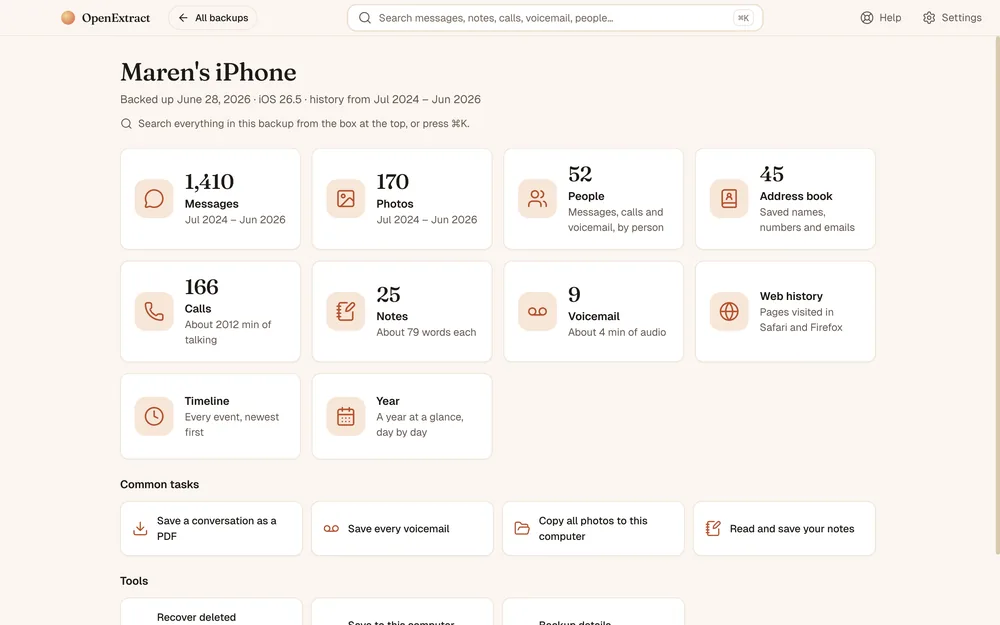
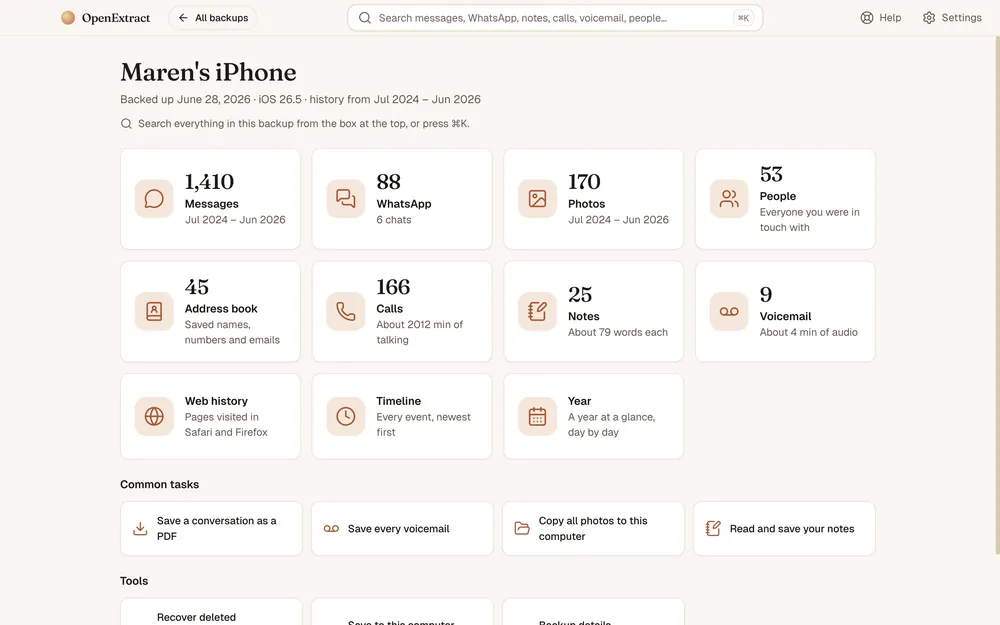
site: WhatsApp screenshots from the sample backup, and a new home shot
Two new screens, taken with the run-openextract driver on the synthetic
Maren backup (encrypted, now with WhatsApp chats), 1440x900 at 2x, resized
to 1000 and 2000 px WebP at quality 80 like the existing shots:

- whatsapp: the WhatsApp section with the MLA '18 group open: a reply
  quoting an earlier message, reactions and a photo of Diablo Lake.
- whatsapp-chat: Lucia's chat (in Spanish) with rose-garden photos, a
  missed call, a voice message playing in the app and a 22-minute call.

whatsapp-* fills the screenshot spot on both WhatsApp guides (English and
German alt text now describe it). /screenshots gets both as a pair after
Group chats, so the home page says "See all 18 screens". The README
screenshot table gets the same pair, and its Search caption names
WhatsApp.

home-1000/2000.webp and home-2000.png are retaken in place: the home page
now has a WhatsApp tile (88 messages, 6 chats) and 53 people. Alt text on
the home page, /screenshots, the Linux guide and the README says so.
Linux guide lastmod 2026-11-11.

diff --git a/website/static/screenshots.html b/website/static/screenshots.html
@@ -49,7 +49,7 @@
   <section class="gallery">
     <figure class="screen screen--wide">
       <a class="screen__frame" href="/img/screens/home-2000.webp">
-        <img src="/img/screens/home-1000.webp" srcset="/img/screens/home-1000.webp 1000w, /img/screens/home-2000.webp 2000w" sizes="(max-width: 720px) calc(100vw - 48px), min(calc(100vw - 112px), 1088px)" width="1000" height="625" decoding="async" alt="The home page for Maren's iPhone: tiles for 1,410 messages, 170 photos, 52 people, 45 address book cards, 166 calls, 25 notes and 9 voicemails, plus Web history, Timeline and Year, under a search box that runs across the top." />
+        <img src="/img/screens/home-1000.webp" srcset="/img/screens/home-1000.webp 1000w, /img/screens/home-2000.webp 2000w" sizes="(max-width: 720px) calc(100vw - 48px), min(calc(100vw - 112px), 1088px)" width="1000" height="625" decoding="async" alt="The home page for Maren's iPhone: tiles for 1,410 messages, 88 WhatsApp messages in 6 chats, 170 photos, 53 people, 45 address book cards, 166 calls, 25 notes and 9 voicemails, plus Web history, Timeline and Year, under a search box that runs across the top." />
       </a>
       <figcaption><strong>Home</strong>Everything in the backup on one page, most of it with a count. The box at the top searches all of it.</figcaption>
     </figure>
@@ -96,11 +96,19 @@
       <figcaption><strong>Group chats</strong>Group threads show who said what.</figcaption>
     </figure>
 
-    <!-- WhatsApp screenshot slot, filled in the screenshot step: a <figure class="screen">
-         like the ones above, with img/screens/whatsapp-1000.webp and whatsapp-2000.webp,
-         alt text describing the sample chat, and a caption such as
-         <strong>WhatsApp</strong>Chats and groups with their photos, voice messages, replies and calls.
-         Then change "See all 16 screens" on the home page to 17. -->
+    <figure class="screen">
+      <a class="screen__frame" href="/img/screens/whatsapp-2000.webp">
+        <img src="/img/screens/whatsapp-1000.webp" srcset="/img/screens/whatsapp-1000.webp 1000w, /img/screens/whatsapp-2000.webp 2000w" sizes="(max-width: 720px) calc(100vw - 48px), 540px" width="1000" height="625" loading="lazy" decoding="async" alt="A WhatsApp group chat called MLA &rsquo;18, beside the list of six chats: a reply that quotes an earlier message, emoji reactions under messages and a photo of Diablo Lake." />
+      </a>
+      <figcaption><strong>WhatsApp</strong>Chats, groups and broadcast lists in a section of their own. Replies show the message they answer, with reactions underneath.</figcaption>
+    </figure>
+
+    <figure class="screen">
+      <a class="screen__frame" href="/img/screens/whatsapp-chat-2000.webp">
+        <img src="/img/screens/whatsapp-chat-1000.webp" srcset="/img/screens/whatsapp-chat-1000.webp 1000w, /img/screens/whatsapp-chat-2000.webp 2000w" sizes="(max-width: 720px) calc(100vw - 48px), 540px" width="1000" height="625" loading="lazy" decoding="async" alt="A WhatsApp chat in Spanish with Lucía Navarro: two photos of a rose garden, a missed call, a voice message playing in the app and a 22-minute call." />
+      </a>
+      <figcaption><strong>Voice messages and calls</strong>Play voice messages in the app. Calls show in the chat, missed or with how long they lasted.</figcaption>
+    </figure>
 
     <figure class="screen">
       <a class="screen__frame" href="/img/screens/photos-2000.webp">

diff --git a/website/static/de/whatsapp-chats-exportieren.html b/website/static/de/whatsapp-chats-exportieren.html
@@ -180,11 +180,9 @@
     <div class="prose__inner">
       <p>WhatsApp kann einen Chat selbst exportieren, aber nur einzeln und als reine Textdatei. Das Chat-Backup von WhatsApp landet in iCloud, und dort kann es nur WhatsApp wiederherstellen; öffnen kannst du es nicht. Wenn du deine Chats lesbar auf dem eigenen Computer haben willst, zum Aufbewahren, Ausdrucken oder Durchsuchen, hilft dir beides wenig.</p>
       <p>Es gibt einen anderen Weg. Wenn du dein iPhone auf einem Computer sicherst, landen die WhatsApp-Chats mit im Backup, zusammen mit deinen Nachrichten und Fotos. OpenExtract liest sie dort aus, zeigt sie in einem eigenen WhatsApp-Bereich und speichert sie als Dateien, die sich überall öffnen lassen. Kostenlos, ohne Probeversion und ohne Limit.</p>
-      <!-- Screenshot: the WhatsApp section on the made-up sample backup (same images as
-           the English page, added in the screenshot step; update the alt text to match). -->
       <figure class="screen">
         <a class="screen__frame" href="/img/screens/whatsapp-2000.webp">
-          <img src="/img/screens/whatsapp-1000.webp" srcset="/img/screens/whatsapp-1000.webp 1000w, /img/screens/whatsapp-2000.webp 2000w" sizes="(max-width: 720px) calc(100vw - 48px), 720px" width="1000" height="625" loading="lazy" decoding="async" alt="Der WhatsApp-Bereich in OpenExtract, geöffnet aus einem erfundenen Beispiel-Backup: die Liste der Chats neben einem geöffneten Chat." />
+          <img src="/img/screens/whatsapp-1000.webp" srcset="/img/screens/whatsapp-1000.webp 1000w, /img/screens/whatsapp-2000.webp 2000w" sizes="(max-width: 720px) calc(100vw - 48px), 720px" width="1000" height="625" loading="lazy" decoding="async" alt="Der WhatsApp-Bereich in OpenExtract, geöffnet aus einem erfundenen Beispiel-Backup: sechs Chats neben einem geöffneten Gruppenchat, mit einer Antwort, die eine frühere Nachricht zitiert, Emoji-Reaktionen unter Nachrichten und einem Foto von einem See." />
         </a>
         <figcaption><strong>WhatsApp aus einem Backup</strong>Ein erfundenes Beispiel-Backup in OpenExtract. Die Oberfläche ist auf Englisch.</figcaption>
       </figure>

diff --git a/website/static/use-cases/export-whatsapp-chats-from-iphone-backup.html b/website/static/use-cases/export-whatsapp-chats-from-iphone-backup.html
@@ -178,12 +178,9 @@
     <div class="prose__inner">
       <p>WhatsApp's own Export Chat works one chat at a time and gives you a plain text file. Its chat backup goes to iCloud, where only WhatsApp can restore it and you can't open it yourself. Neither is much help if you want your chats on your own computer, in a form you can read, print and keep.</p>
       <p>There's another way in. When you back up an iPhone to a computer, WhatsApp's chats go into that backup along with your texts and photos. OpenExtract reads them from there, in their own WhatsApp section, and saves them as files that open anywhere. It's free, with no trial and no limit on how much you save.</p>
-      <!-- Screenshot: the WhatsApp section on the made-up sample backup. The images
-           img/screens/whatsapp-1000.webp and whatsapp-2000.webp are added in the
-           screenshot step; update the alt text to match what the screenshot shows. -->
       <figure class="screen">
         <a class="screen__frame" href="/img/screens/whatsapp-2000.webp">
-          <img src="/img/screens/whatsapp-1000.webp" srcset="/img/screens/whatsapp-1000.webp 1000w, /img/screens/whatsapp-2000.webp 2000w" sizes="(max-width: 720px) calc(100vw - 48px), 720px" width="1000" height="625" loading="lazy" decoding="async" alt="The WhatsApp section in OpenExtract, opened on a made-up sample backup: the list of chats beside an open chat." />
+          <img src="/img/screens/whatsapp-1000.webp" srcset="/img/screens/whatsapp-1000.webp 1000w, /img/screens/whatsapp-2000.webp 2000w" sizes="(max-width: 720px) calc(100vw - 48px), 720px" width="1000" height="625" loading="lazy" decoding="async" alt="The WhatsApp section in OpenExtract, opened on a made-up sample backup: six chats listed beside an open group chat, with a reply that quotes an earlier message, emoji reactions under messages and a photo of a lake." />
         </a>
         <figcaption><strong>WhatsApp, opened from a backup</strong>A made-up sample backup in OpenExtract. <a href="/screenshots">See every screen</a>.</figcaption>
       </figure>

diff --git a/website/static/index.html b/website/static/index.html
@@ -275,7 +275,7 @@
     </div>
     <figure class="screen">
       <a class="screen__frame" href="/img/screens/home-2000.webp">
-        <img src="/img/screens/home-1000.webp" srcset="/img/screens/home-1000.webp 1000w, /img/screens/home-2000.webp 2000w" sizes="(max-width: 720px) calc(100vw - 48px), calc(100vw - 112px)" width="1000" height="625" loading="lazy" decoding="async" alt="The home page for Maren's iPhone: tiles for 1,410 messages, 170 photos, 52 people, 45 address book cards, 166 calls, 25 notes and 9 voicemails, plus Web history, Timeline and Year, under a search box that runs across the top." />
+        <img src="/img/screens/home-1000.webp" srcset="/img/screens/home-1000.webp 1000w, /img/screens/home-2000.webp 2000w" sizes="(max-width: 720px) calc(100vw - 48px), calc(100vw - 112px)" width="1000" height="625" loading="lazy" decoding="async" alt="The home page for Maren's iPhone: tiles for 1,410 messages, 88 WhatsApp messages in 6 chats, 170 photos, 53 people, 45 address book cards, 166 calls, 25 notes and 9 voicemails, plus Web history, Timeline and Year, under a search box that runs across the top." />
       </a>
     </figure>
     <div class="screens__grid">
@@ -298,7 +298,7 @@
         <figcaption><strong>Photos</strong>The whole camera roll, sorted into the albums you made.</figcaption>
       </figure>
     </div>
-    <a class="screens__more" href="/screenshots">See all 16 screens →</a>
+    <a class="screens__more" href="/screenshots">See all 18 screens →</a>
   </section>
 
   <section class="how">

diff --git a/website/static/use-cases/iphone-backup-extractor-linux.html b/website/static/use-cases/iphone-backup-extractor-linux.html
@@ -87,7 +87,7 @@
       <p>OpenExtract builds for Linux with every release. It's the same app as on Mac and Windows, with the same screens and exports, and the parsing engine's tests run on Linux, macOS and Windows on every change.</p>
       <figure class="screen">
         <a class="screen__frame" href="/img/screens/home-2000.webp">
-          <img src="/img/screens/home-1000.webp" srcset="/img/screens/home-1000.webp 1000w, /img/screens/home-2000.webp 2000w" sizes="(max-width: 720px) calc(100vw - 48px), 720px" width="1000" height="625" loading="lazy" decoding="async" alt="The home page of a sample iPhone backup in OpenExtract: tiles with counts of messages, photos, people, address book cards, calls, notes and voicemails, under a search box for the whole backup." />
+          <img src="/img/screens/home-1000.webp" srcset="/img/screens/home-1000.webp 1000w, /img/screens/home-2000.webp 2000w" sizes="(max-width: 720px) calc(100vw - 48px), 720px" width="1000" height="625" loading="lazy" decoding="async" alt="The home page of a sample iPhone backup in OpenExtract: tiles with counts of messages, WhatsApp messages, photos, people, address book cards, calls, notes and voicemails, under a search box for the whole backup." />
         </a>
         <figcaption><strong>A backup's home page</strong>A sample backup in OpenExtract. <a href="/screenshots">See every screen</a>.</figcaption>
       </figure>

diff --git a/README.md b/README.md
@@ -9,7 +9,7 @@ A free, open-source iPhone backup extractor for Windows, Mac and Linux: read and
 
 **No cloud. No subscriptions. Your data stays on your computer.**
 
-[![The home page of a sample iPhone backup in OpenExtract: tiles with counts of messages, photos, people, address book cards, calls, notes and voicemails, plus web history, timeline and year, under a search box for the whole backup.](website/static/img/screens/home-1000.webp)](website/static/img/screens/home-2000.webp)
+[![The home page of a sample iPhone backup in OpenExtract: tiles with counts of messages, WhatsApp messages, photos, people, address book cards, calls, notes and voicemails, plus web history, timeline and year, under a search box for the whole backup.](website/static/img/screens/home-1000.webp)](website/static/img/screens/home-2000.webp)
 
 ## Features
 
@@ -43,7 +43,7 @@ These use a made-up test backup, so none of the people or messages are real. Cli
   <tr>
     <td width="50%" valign="top">
       <a href="website/static/img/screens/search-2000.webp"><img src="website/static/img/screens/search-1000.webp" width="100%" alt="Search results for a word across the whole backup: notes, messages and web pages, with the first note previewed and every match highlighted."></a>
-      <br><b>Search</b>: one box searches messages, notes, calls, voicemail, people and web history.
+      <br><b>Search</b>: one box searches messages, WhatsApp, notes, calls, voicemail, people and web history.
     </td>
     <td width="50%" valign="top">
       <a href="website/static/img/screens/search-match-2000.webp"><img src="website/static/img/screens/search-match-1000.webp" width="100%" alt="A conversation opened from a search result at the matching message, with the word highlighted and arrows to step through the other matches."></a>
@@ -68,6 +68,16 @@ These use a made-up test backup, so none of the people or messages are real. Cli
     <td width="50%" valign="top">
       <a href="website/static/img/screens/group-chat-2000.webp"><img src="website/static/img/screens/group-chat-1000.webp" width="100%" alt="A group chat with other people's messages labeled by who sent them and a mountain photo in the thread."></a>
       <br><b>Group chats</b>: group threads show who said what.
+    </td>
+  </tr>
+  <tr>
+    <td width="50%" valign="top">
+      <a href="website/static/img/screens/whatsapp-2000.webp"><img src="website/static/img/screens/whatsapp-1000.webp" width="100%" alt="A WhatsApp group chat beside the list of chats: a reply that quotes an earlier message, emoji reactions under messages and a photo of a lake."></a>
+      <br><b>WhatsApp</b>: chats, groups and broadcast lists, with replies, reactions and photos.
+    </td>
+    <td width="50%" valign="top">
+      <a href="website/static/img/screens/whatsapp-chat-2000.webp"><img src="website/static/img/screens/whatsapp-chat-1000.webp" width="100%" alt="A WhatsApp chat in Spanish: two photos of a rose garden, a missed call, a voice message playing in the app and a 22-minute call."></a>
+      <br><b>Voice messages and calls</b>: play voice messages in the app; calls show missed or with their length.
     </td>
   </tr>
   <tr>
